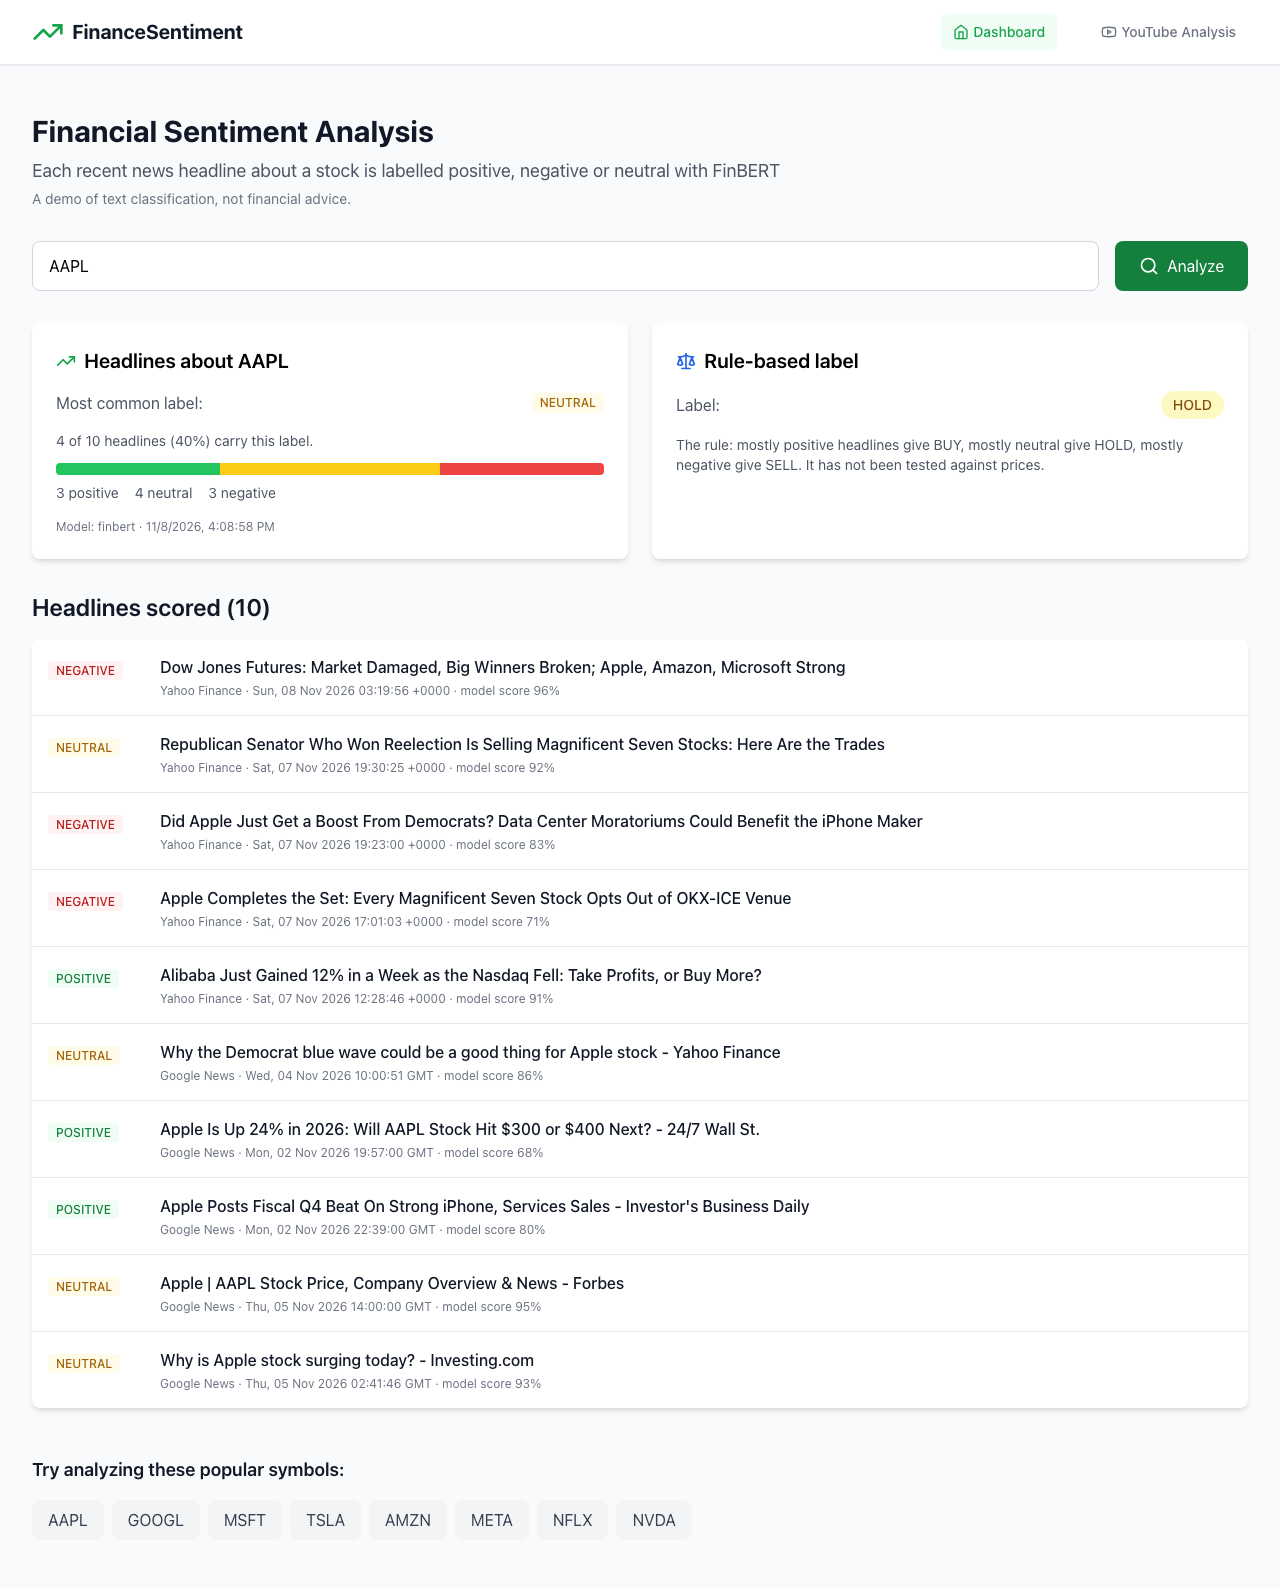
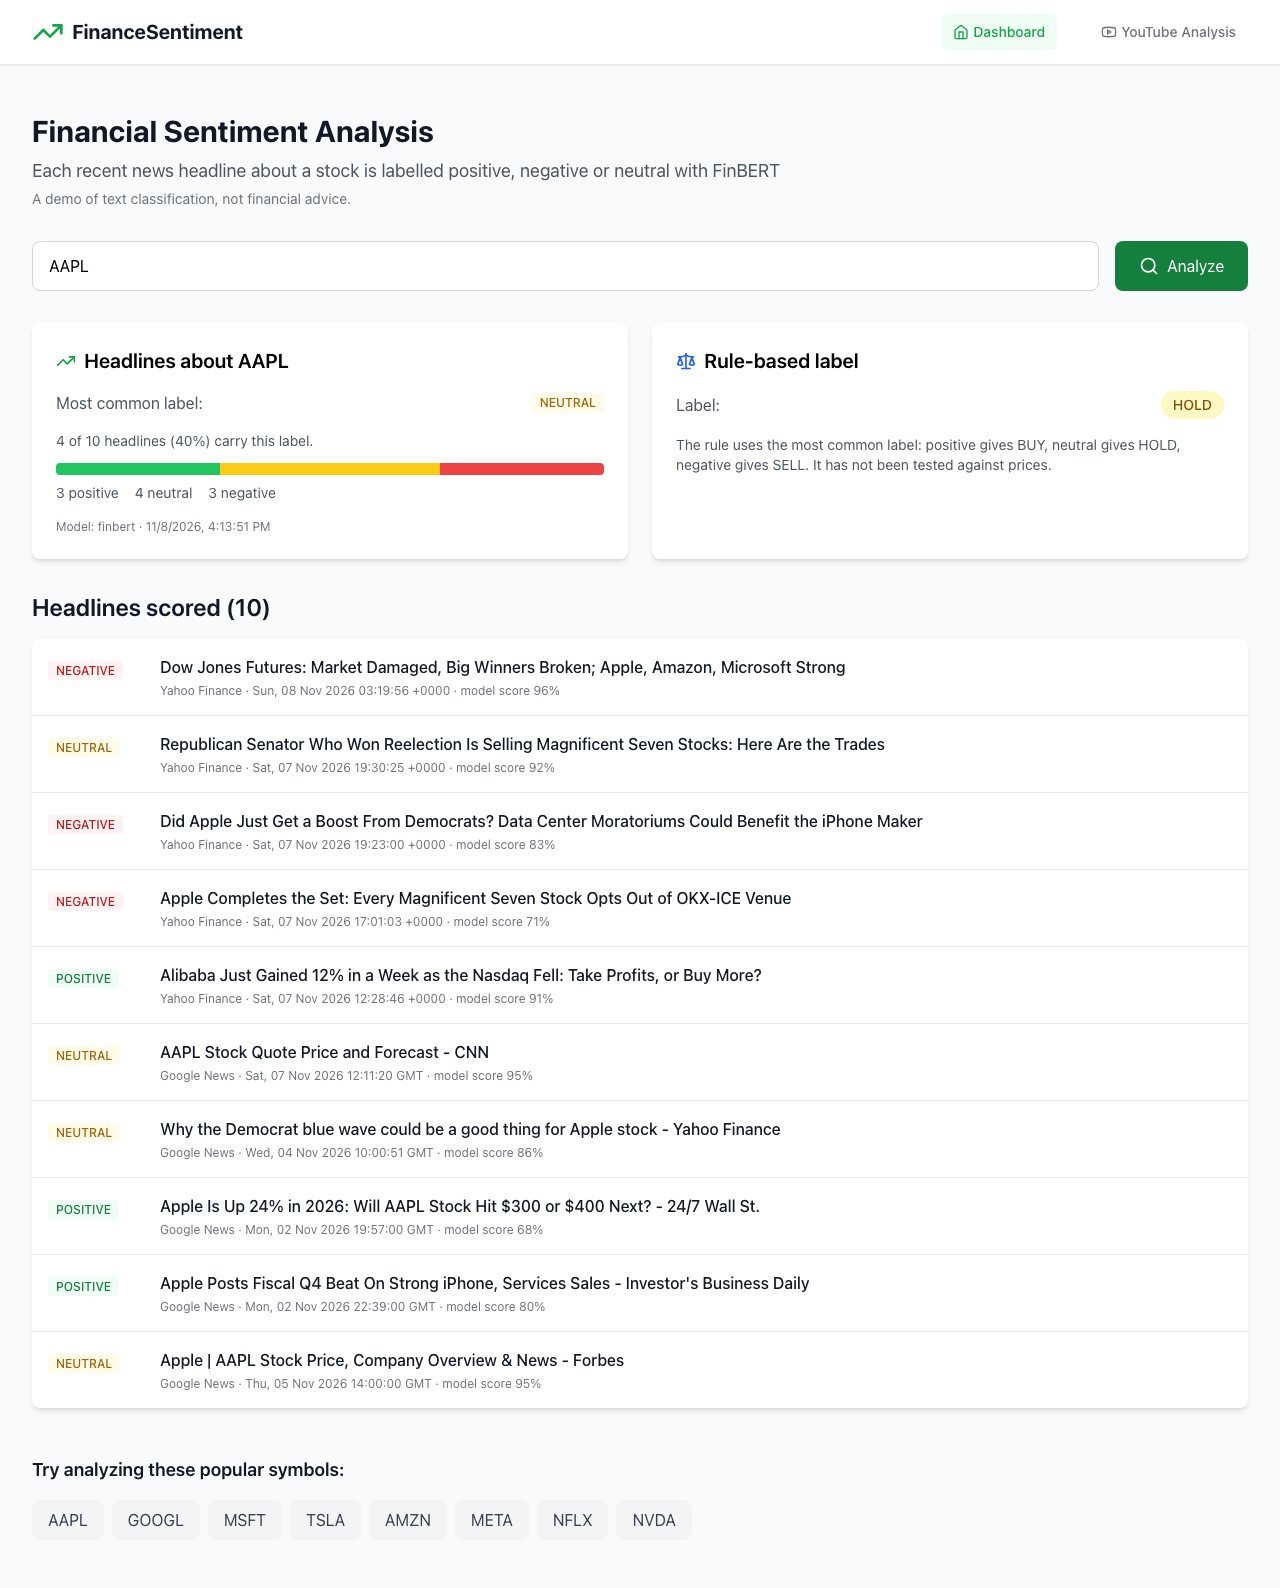
Fix last review findings: duplicate Google headlines, UTC time, unfinished page, wording
- Compare headline and summary on letters and digits only, so short Google News headlines
  are not sent to the model twice.
- Return the analysis time in UTC.
- Remove the unfinished /analysis/:symbol page and unused API helpers.
- State the BUY/HOLD/SELL rule exactly; say that a symbol's feed can include other companies.
- Fix the evaluation install line; describe the CI workflow without claiming a run.

diff --git a/frontend/src/pages/Dashboard.jsx b/frontend/src/pages/Dashboard.jsx
@@ -125,8 +125,8 @@ const Dashboard = () => {
                                     </span>
                                 </div>
                                 <p className="text-sm text-gray-600">
-                                    The rule: mostly positive headlines give BUY, mostly neutral give HOLD, mostly
-                                    negative give SELL. It has not been tested against prices.
+                                    The rule uses the most common label: positive gives BUY, neutral gives HOLD,
+                                    negative gives SELL. It has not been tested against prices.
                                 </p>
                             </div>
                         </div>

diff --git a/frontend/src/App.jsx b/frontend/src/App.jsx
@@ -2,7 +2,6 @@ import React from 'react';
 import { BrowserRouter as Router, Routes, Route } from 'react-router-dom';
 import Header from './components/Header';
 import Dashboard from './pages/Dashboard';
-import SymbolAnalysis from './pages/SymbolAnalysis';
 import YouTubeAnalyzer from './pages/YouTubeAnalyzer';
 
 function App() {
@@ -13,7 +12,6 @@ function App() {
                 <main>
                     <Routes>
                         <Route path="/" element={<Dashboard />} />
-                        <Route path="/analysis/:symbol" element={<SymbolAnalysis />} />
                         <Route path="/youtube" element={<YouTubeAnalyzer />} />
                     </Routes>
                 </main>

diff --git a/frontend/src/pages/YouTubeAnalyzer.jsx b/frontend/src/pages/YouTubeAnalyzer.jsx
@@ -72,7 +72,7 @@ const YouTubeAnalyzer = () => {
                                 className="w-full px-4 py-3 border border-gray-300 rounded-lg focus:ring-2 focus:ring-green-500 focus:border-transparent"
                             />
                             <p className="mt-2 text-sm text-gray-500">
-                                📌 Note: Video must have English captions/transcripts available
+                                📌 Note: the video needs English captions, or captions YouTube can translate into English
                             </p>
                         </div>
                         <button

diff --git a/frontend/src/services/api.js b/frontend/src/services/api.js
@@ -42,16 +42,4 @@ export const analyzeYouTubeVideo = async (videoId) => {
     return response.data;
 };
 
-export const analyzeTextSentiment = async (text) => {
-    const response = await api.post('/api/sentiment/analyze', {
-        text: text,
-    });
-    return response.data;
-};
-
-export const getNewsArticles = async (symbol) => {
-    const response = await api.get(`/api/data/news/${symbol}`);
-    return response.data;
-};
-
 export default api;

diff --git a/backend/app/services/analysis_engine.py b/backend/app/services/analysis_engine.py
@@ -5,8 +5,9 @@ Every headline is labelled on its own. The overall label is the most common one,
 HOLD (neutral) or SELL (negative); the rule has not been tested against prices.
 """
 
+import re
 from collections import Counter
-from datetime import datetime
+from datetime import datetime, timezone
 from typing import Any, Dict, List
 
 from app.models.schemas import AnalysisResult, ScoredArticle, SentimentLabel
@@ -22,10 +23,18 @@ class NoNewsFound(Exception):
     """No source returned any text for the symbol, so there is nothing to score."""
 
 
+def _letters(text: str) -> str:
+    return re.sub(r"[^a-z0-9]", "", text.lower())
+
+
 def article_text(article: Dict[str, Any]) -> str:
-    """Headline plus summary; the headline alone when the summary only repeats it."""
+    """Headline plus summary; the headline alone when the summary only repeats it.
+
+    Google News summaries are "headline outlet" while the title is "headline - outlet", so the
+    comparison ignores everything but letters and digits.
+    """
     title, summary = article.get("title") or "", article.get("content") or ""
-    if not summary or summary.startswith(title[:40]):
+    if not summary or _letters(summary).startswith(_letters(title)[:40]):
         return title
     return f"{title}. {summary}"
 
@@ -62,7 +71,7 @@ class AnalysisEngine:
             articles=[ScoredArticle(title=a["title"], url=a.get("url", ""), source=a.get("source", ""),
                                     published=a.get("published", ""), sentiment=r.sentiment, score=r.confidence)
                       for a, r in zip(articles, labels)],
-            timestamp=datetime.now(),
+            timestamp=datetime.now(timezone.utc),
         )
 
 

diff --git a/backend/tests/test_collector.py b/backend/tests/test_collector.py
@@ -41,6 +41,8 @@ def test_article_text_skips_a_summary_that_repeats_the_headline():
     title = "Apple stock rises after strong iPhone sales - Reuters"
     assert article_text({"title": title, "content": "Apple stock rises after strong iPhone sales Reuters"}) == title
     assert article_text({"title": "Apple rises", "content": "Sales beat estimates."}) == "Apple rises. Sales beat estimates."
+    # Google News: the outlet sits inside the first 40 characters of a short headline.
+    assert article_text({"title": "AAPL Stock Quote - CNN", "content": "AAPL Stock Quote CNN"}) == "AAPL Stock Quote - CNN"
 
 
 def test_repeated_headlines_count_once():

diff --git a/evaluation/evaluate.py b/evaluation/evaluate.py
@@ -15,7 +15,7 @@ Methods compared:
 Each row is one headline, scored on its own. The app also adds article summaries and combines
 many headlines; that is not measured here.
 
-  pip install -r backend/requirements-dev.txt
+  pip install -r backend/requirements.txt -r evaluation/requirements.txt
   python evaluation/evaluate.py            # writes evaluation/results.json
 """
 

diff --git a/README.md b/README.md
@@ -72,6 +72,8 @@ It never fills in sample data.
   app asks YouTube for an English translation and gives up if there is none.
 - **Long transcripts.** FinBERT reads about 350 words at a time, so a transcript is split into
   300-word pieces (up to 40) and their scores are averaged.
+- **Feeds are not always on topic.** Yahoo Finance's feed for a symbol sometimes includes
+  headlines about other companies, and they are scored too.
 - **YouTube often blocks cloud servers,** so the video page may work only when you run the app
   yourself.
 
@@ -85,8 +87,7 @@ docker compose up --build
 ```
 
 The image downloads FinBERT (438 MB) while it builds and then runs offline, so the first request
-does not wait for a download. In one measurement on a Mac, loading FinBERT and scoring a batch of
-headlines used up to 1.4 GB of memory.
+does not wait for a download.
 
 **Local development:**
 
@@ -134,8 +135,8 @@ pytest -m slow      # only the FinBERT test (downloads the model)
 pytest -m ""        # everything
 ```
 
-On every push, GitHub Actions runs the fast tests, builds the frontend, and builds the Docker
-image and checks that it answers.
+A GitHub Actions workflow (`.github/workflows/ci.yml`) runs the fast tests, builds the frontend,
+and builds the Docker image and checks that it answers.
 
 ## Project layout
 
